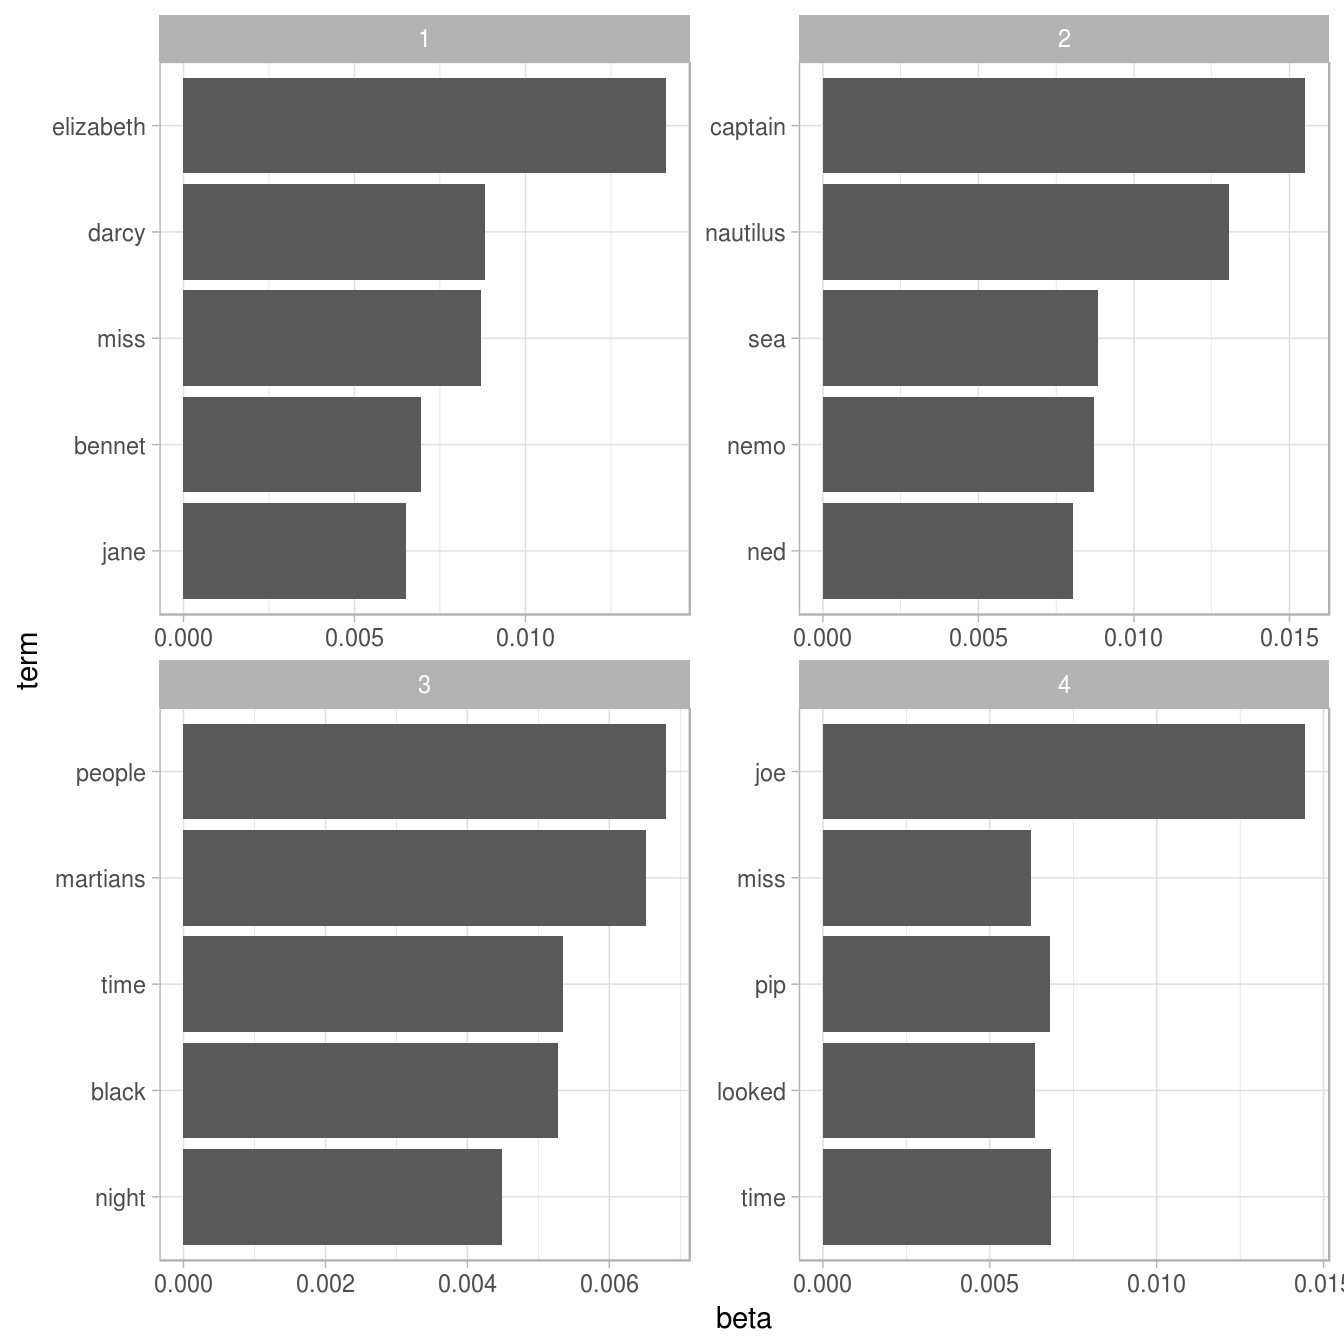
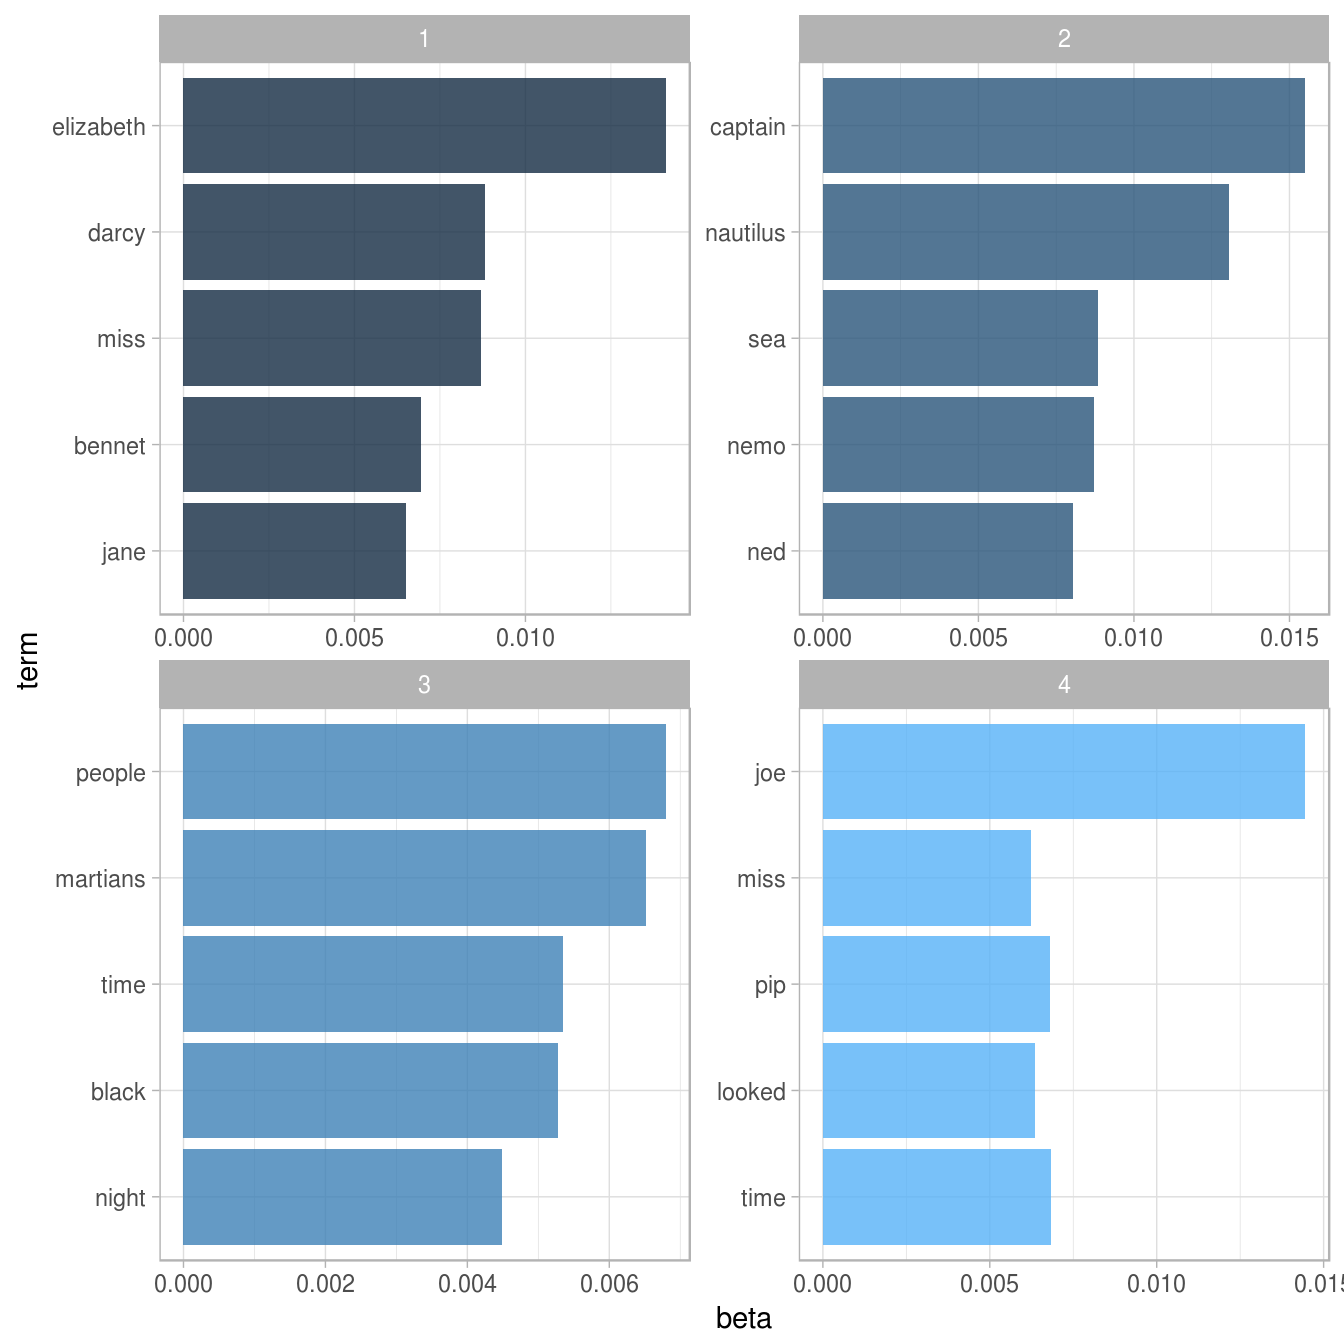
Updating book (97)

Changed region(s): [[0.125, 0.5312, 0.5, 0.9375], [0.5938, 0.0312, 0.9688, 0.4688], [0.5938, 0.5312, 0.9688, 0.9375]]

diff --git a/topicmodeling.html b/topicmodeling.html
@@ -334,8 +334,8 @@ top_terms</code></pre></div>
 
 top_terms %&gt;%
 <span class="st">  </span><span class="kw">mutate</span>(<span class="dt">term =</span> <span class="kw">reorder</span>(term, beta)) %&gt;%
-<span class="st">  </span><span class="kw">ggplot</span>(<span class="kw">aes</span>(term, beta)) +
-<span class="st">  </span><span class="kw">geom_bar</span>(<span class="dt">stat =</span> <span class="st">&quot;identity&quot;</span>) +
+<span class="st">  </span><span class="kw">ggplot</span>(<span class="kw">aes</span>(term, beta, <span class="dt">fill =</span> topic)) +
+<span class="st">  </span><span class="kw">geom_bar</span>(<span class="dt">alpha =</span> <span class="fl">0.8</span>, <span class="dt">stat =</span> <span class="st">&quot;identity&quot;</span>, <span class="dt">show.legend =</span> <span class="ot">FALSE</span>) +
 <span class="st">  </span><span class="kw">facet_wrap</span>(~<span class="st"> </span>topic, <span class="dt">scales =</span> <span class="st">&quot;free&quot;</span>) +
 <span class="st">  </span><span class="kw">coord_flip</span>()</code></pre></div>
 <p><img src="07-topic-models_files/figure-html/top_terms_plot-1.png" width="672" /></p>

diff --git a/07-topic-models.md b/07-topic-models.md
@@ -192,8 +192,8 @@ library(ggplot2)
 
 top_terms %>%
   mutate(term = reorder(term, beta)) %>%
-  ggplot(aes(term, beta)) +
-  geom_bar(stat = "identity") +
+  ggplot(aes(term, beta, fill = topic)) +
+  geom_bar(alpha = 0.8, stat = "identity", show.legend = FALSE) +
   facet_wrap(~ topic, scales = "free") +
   coord_flip()
 ```
